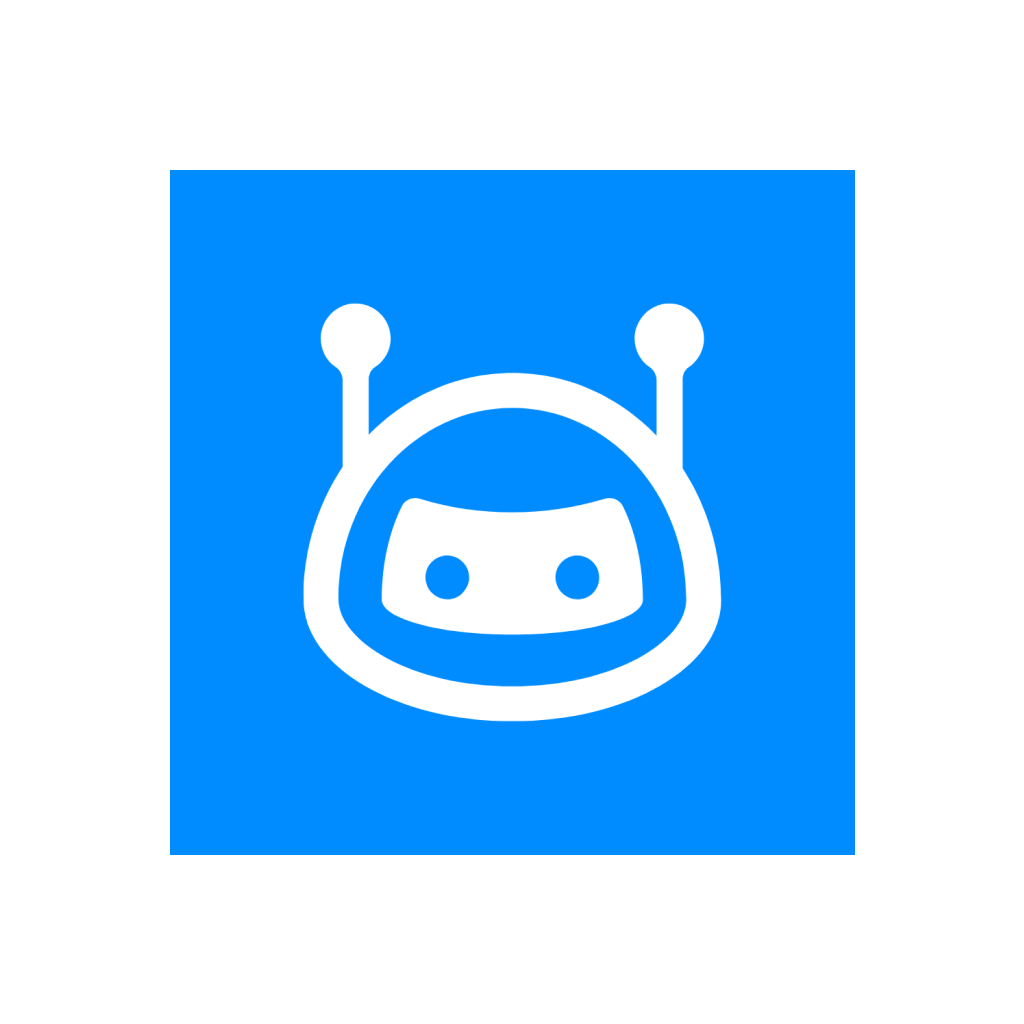
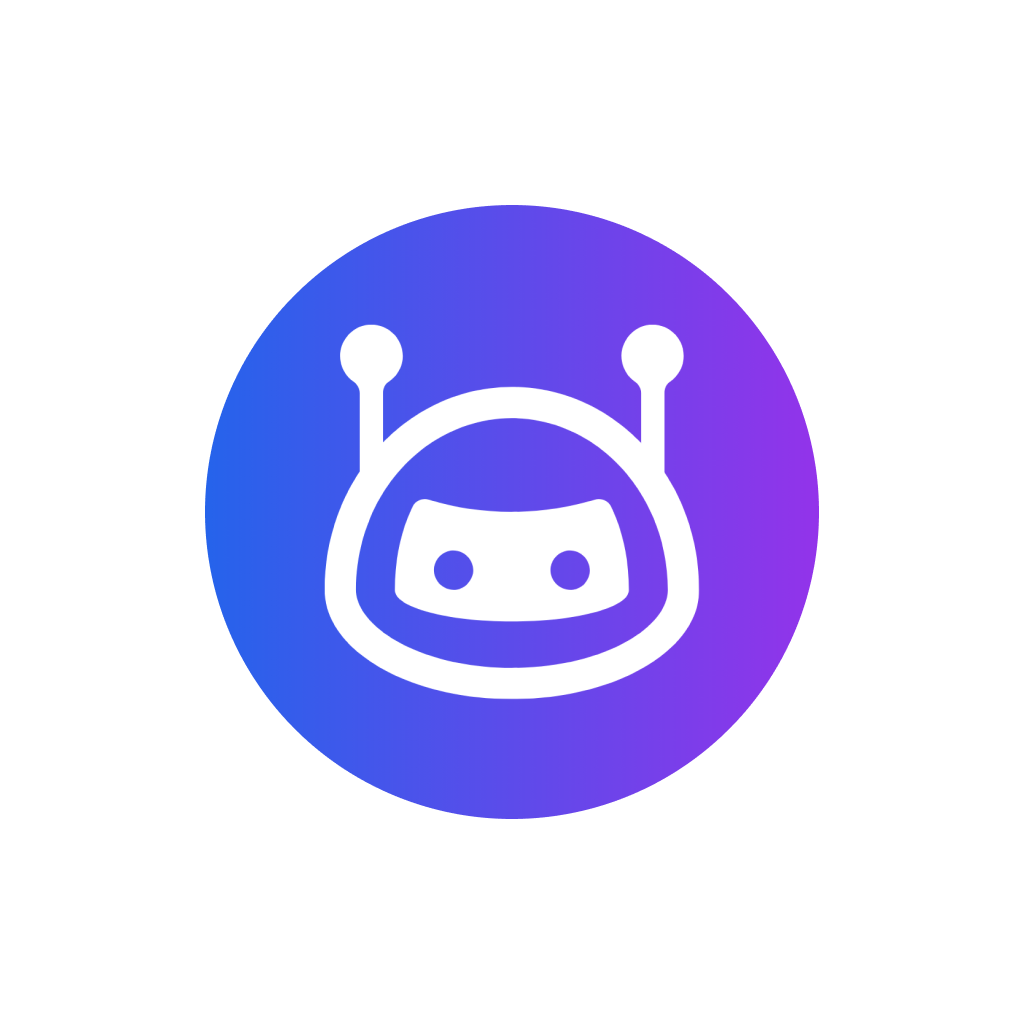
Fixed Data

diff --git a/app/(auth)/request_forgot.tsx b/app/(auth)/request_forgot.tsx
@@ -114,7 +114,7 @@ export default function RequestForgotPassword() {
         <View className="h-56 px-6 pt-12">
           <View className="flex items-center mt-6">
             <Image
-              source={require("../../assets/images/icon-black.png")}
+              source={require("../../assets/images/splash-black.png")}
               style={{ width: 100, height: 100 }}
               resizeMode="contain"
             />

diff --git a/app/(auth)/verify_forgot.tsx b/app/(auth)/verify_forgot.tsx
@@ -162,7 +162,7 @@ export default function VerifyForgotPassword() {
         <View className="h-56 px-6 pt-12">
           <View className="flex items-center mt-6">
             <Image
-              source={require("../../assets/images/icon-black.png")}
+              source={require("../../assets/images/splash-black.png")}
               style={{ width: 100, height: 100 }}
               resizeMode="contain"
             />

diff --git a/app/(auth)/signup.tsx b/app/(auth)/signup.tsx
@@ -168,7 +168,7 @@ export default function SignupScreen() {
         <View className="h-56 px-6 pt-12">
           <View className="flex items-center mt-6">
             <Image
-              source={require("../../assets/images/icon-black.png")}
+              source={require("../../assets/images/splash-black.png")}
               style={{ width: 100, height: 100 }}
               resizeMode="contain"
             />

diff --git a/app/(auth)/login.tsx b/app/(auth)/login.tsx
@@ -110,7 +110,7 @@ export default function LoginScreen() {
         <View className="h-56 px-6 pt-12">
           <View className="flex items-center mt-6">
             <Image
-              source={require("../../assets/images/icon-black.png")}
+              source={require("../../assets/images/splash-black.png")}
               style={{ width: 100, height: 100 }}
               resizeMode="contain"
             />
